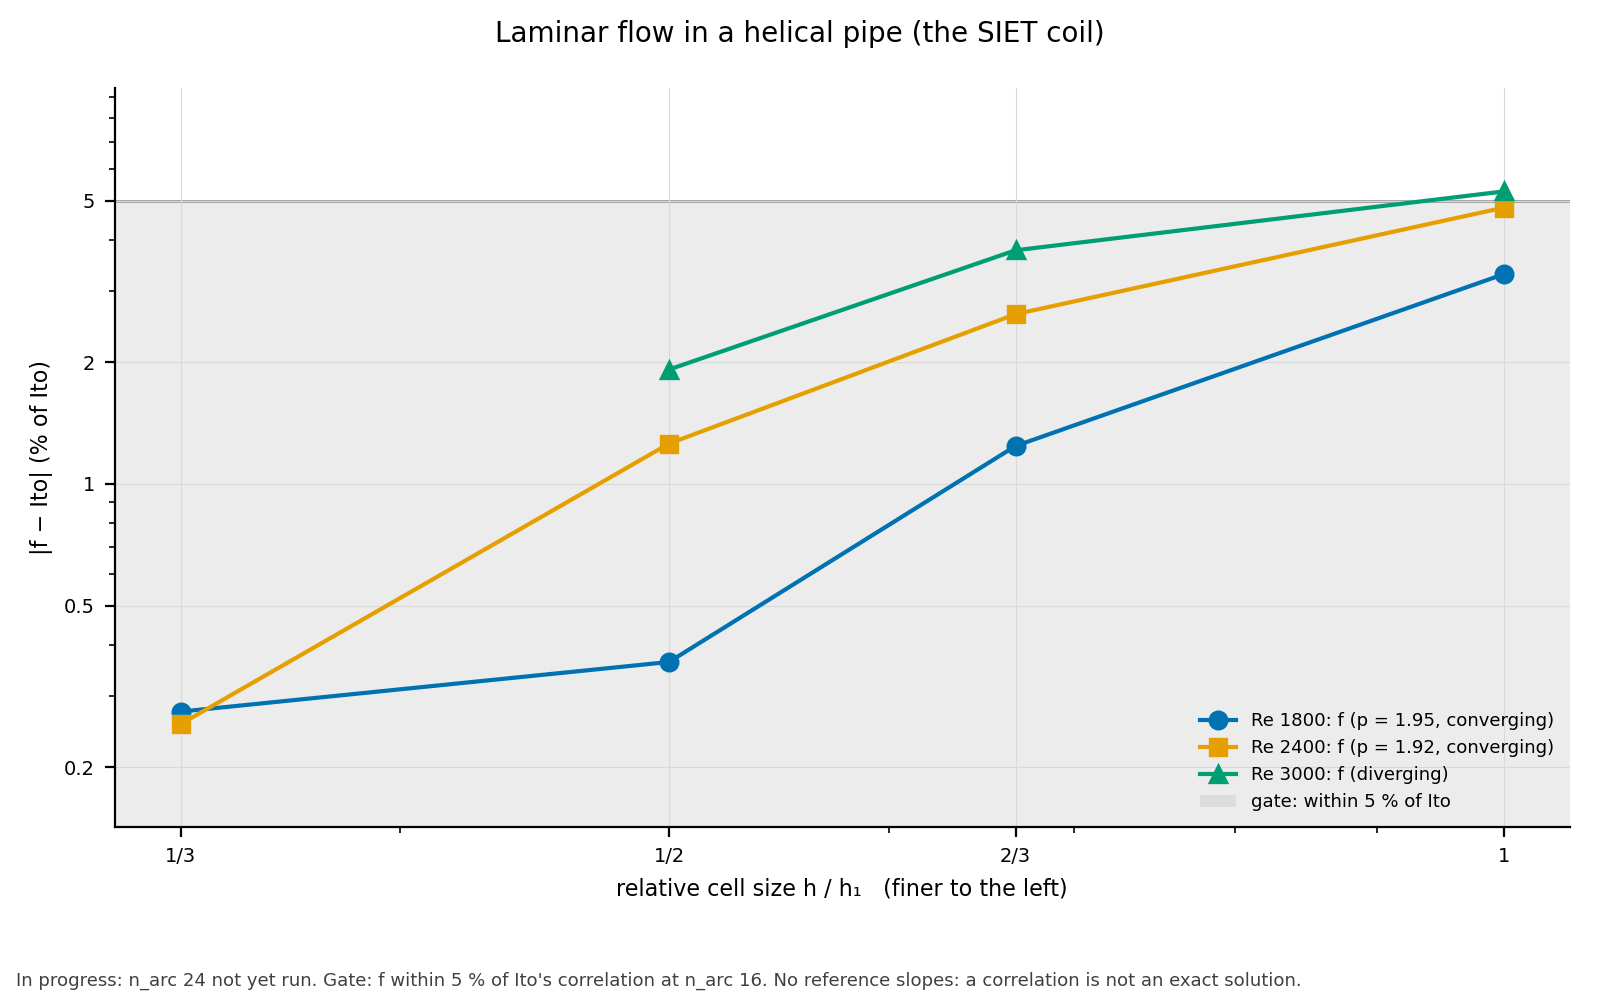
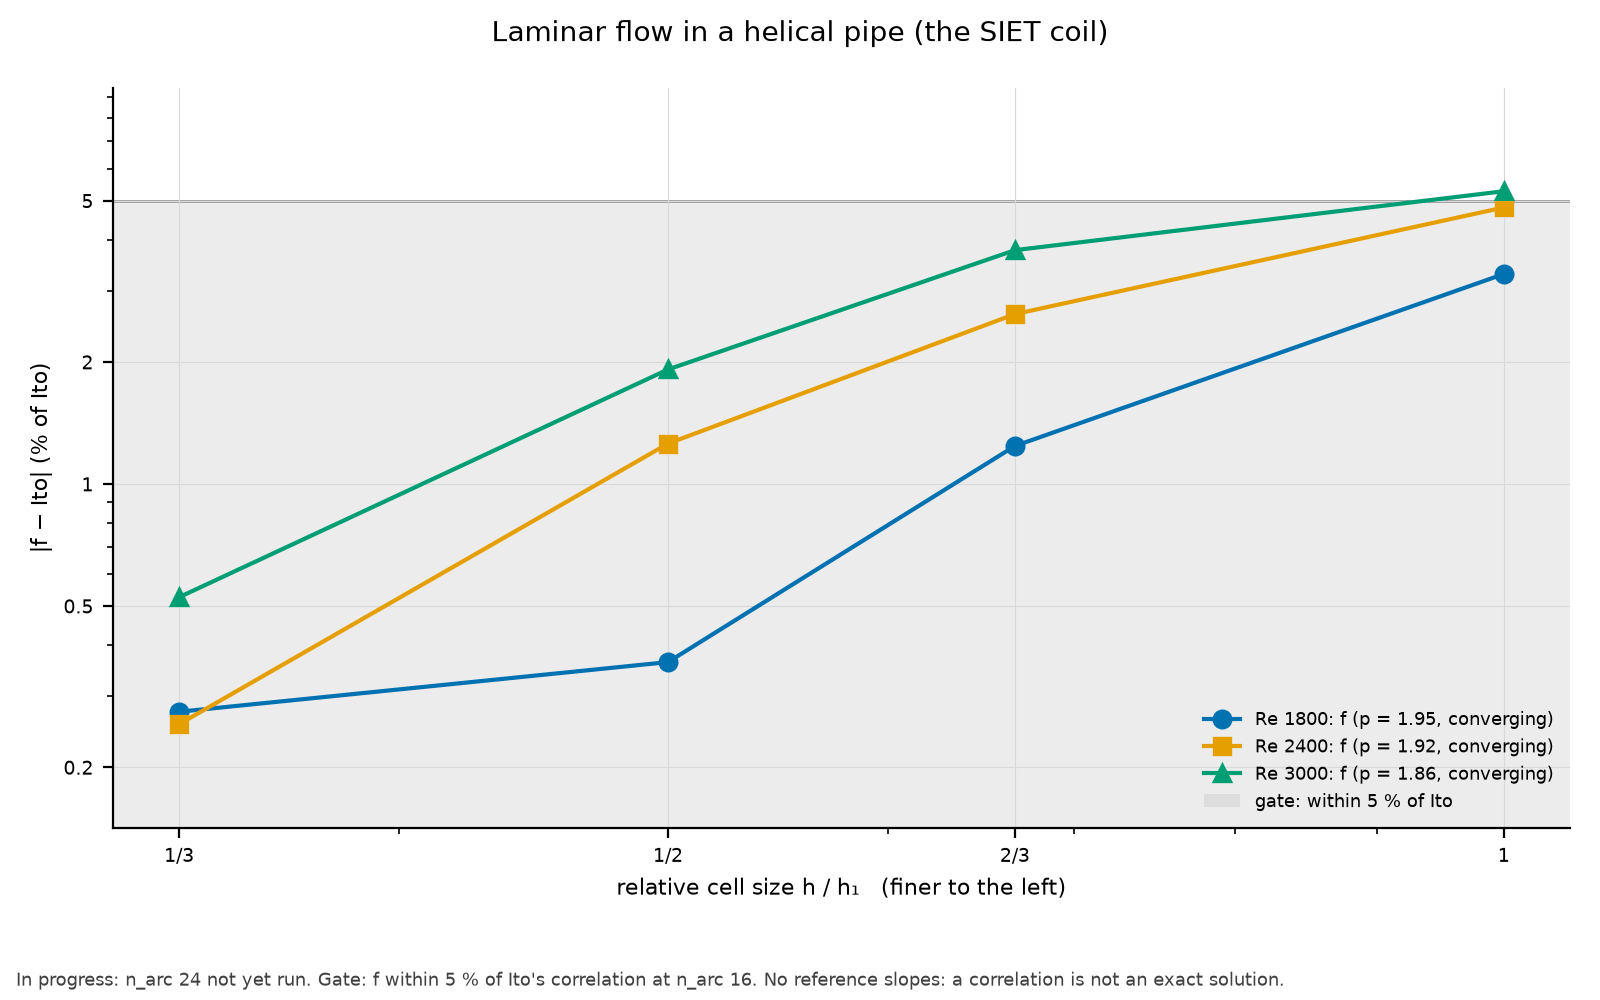
Helical pipe: Re 3000 at n_arc 24, the last missing level (task 0173): f +0.53 % from Ito; order 1.84, GCI 1.44 %; every gate passes
A volunteer run on a laptop (Windows 11, Intel Core Ultra 7 265HX,
v2406 in Docker, 16 processes), merged with `volunteer check --merge`
on next's code: the mesh hash matches, accepted.  The n_arc 16 source
re-solved to the stored f within 1.0e-9; the fine level converged in
440 steps.  Gates (recheck): Re 1800 GCI 0.55 %, -0.27 %; Re 2400 GCI
0.95 %, +0.26 %; Re 3000 GCI 1.44 %, +0.53 %; spline 3.41e-4 d.

Plots, gallery text and hexmesh/agent/validation.json regenerated;
RESULTS.md's status section gains the level.  The case's verdict and
its Gates section stay with task 0075.

diff --git a/docs/gallery/FEATURES.md b/docs/gallery/FEATURES.md
@@ -21,7 +21,7 @@ A pipe that changes direction: a smooth circular arc, a standard butt-weld elbow
 **Validated by** (tags `bend`, `elbow`, `miter`, `spline`):
 
 - ● [FEniCSx: second-order export checked end to end](../../validation/fenicsx_second_order/README.md) (V1, accepted; last run 2026-11-11, hexmesh 5952340; `bend`)
-- ◐ [Laminar flow in a helical pipe (the SIET coil)](../../validation/helical_pipe/README.md) (V3, in progress; last run 2026-11-08, hexmesh c8c7c76+local; `spline`)
+- ◐ [Laminar flow in a helical pipe (the SIET coil)](../../validation/helical_pipe/README.md) (V3, in progress; last run 2026-11-18, hexmesh c7a64b9+local; `spline`)
 - ● [Manufactured solutions for conduction on every fitting](../../validation/mms/README.md) (V1, accepted; last run 2026-11-09, hexmesh b3fbf76; `bend`, `miter`, `spline`)
 - ● [Laminar flow in a 90° square-duct bend, Re 790](../../validation/square_bend/README.md) (V3, accepted; last run 2026-11-06, hexmesh 42357ca+local; `bend`)
 - ○ [task 0050](../tasks/0050-validation-turbulent-bend.md) (V3, planned; `bend`)
@@ -329,7 +329,7 @@ The shape of the pipe: round, or a rectangular duct, and the fittings that chang
 - ● [FEniCSx: second-order export checked end to end](../../validation/fenicsx_second_order/README.md) (V1, accepted; last run 2026-11-11, hexmesh 5952340; `section:circle`)
 - ● [Heated multi-layer pipe with laminar flow (full CHT)](../../validation/heated_pipe/README.md) (V1, accepted; last run 2026-10-31, hexmesh d1baada+local; `section:circle`)
 - ● [Solid rod with uniform heat generation](../../validation/heated_rod/README.md) (V1, accepted; last run 2026-11-02, hexmesh e54faae; `section:circle`)
-- ◐ [Laminar flow in a helical pipe (the SIET coil)](../../validation/helical_pipe/README.md) (V3, in progress; last run 2026-11-08, hexmesh c8c7c76+local; `section:circle`)
+- ◐ [Laminar flow in a helical pipe (the SIET coil)](../../validation/helical_pipe/README.md) (V3, in progress; last run 2026-11-18, hexmesh c7a64b9+local; `section:circle`)
 - ◐ [Equal-diameter 90° tee: loss coefficients, k-ω SST](../../validation/junction_loss/README.md) (V3, in progress; `section:circle`)
 - ● [Conduction through a heated multi-layer cylinder](../../validation/layered_conduction/README.md) (V1, accepted; last run 2026-10-28, hexmesh 91c897a; `section:circle`)
 - ● [Manufactured solutions for conduction on every fitting](../../validation/mms/README.md) (V1, accepted; last run 2026-11-09, hexmesh b3fbf76; `section:circle`, `section:rect`, `transition`)
@@ -693,7 +693,7 @@ Fittings join in any order and any orientation: a network is a sequence of `add`
 - ● [FEniCSx: second-order export checked end to end](../../validation/fenicsx_second_order/README.md) (V1, accepted; last run 2026-11-11, hexmesh 5952340; `straight`)
 - ● [Heated multi-layer pipe with laminar flow (full CHT)](../../validation/heated_pipe/README.md) (V1, accepted; last run 2026-10-31, hexmesh d1baada+local; `straight`)
 - ● [Solid rod with uniform heat generation](../../validation/heated_rod/README.md) (V1, accepted; last run 2026-11-02, hexmesh e54faae; `straight`)
-- ◐ [Laminar flow in a helical pipe (the SIET coil)](../../validation/helical_pipe/README.md) (V3, in progress; last run 2026-11-08, hexmesh c8c7c76+local; `straight`)
+- ◐ [Laminar flow in a helical pipe (the SIET coil)](../../validation/helical_pipe/README.md) (V3, in progress; last run 2026-11-18, hexmesh c7a64b9+local; `straight`)
 - ◐ [Equal-diameter 90° tee: loss coefficients, k-ω SST](../../validation/junction_loss/README.md) (V3, in progress; `straight`)
 - ● [Conduction through a heated multi-layer cylinder](../../validation/layered_conduction/README.md) (V1, accepted; last run 2026-10-28, hexmesh 91c897a; `straight`)
 - ● [Manufactured solutions for conduction on every fitting](../../validation/mms/README.md) (V1, accepted; last run 2026-11-09, hexmesh b3fbf76; `straight`)

diff --git a/validation/helical_pipe/RESULTS.md b/validation/helical_pipe/RESULTS.md
@@ -1,7 +1,9 @@
 # Results: laminar flow in a helical pipe (the SIET coil)
 
 **Status: in progress, undecided.**  Task 0075 is held by the user until
-better hardware (2026-11-08); Re 3000's n_arc 24 level is missing.
+better hardware (2026-11-08).  Re 3000's n_arc 24 level, the last one
+missing, ran on 2026-11-18 (a volunteer run, task 0173); the case's
+verdict is task 0075's.
 - Design moved the convergence study to n_arc 12, 16, 24 (Q3), because
   n_arc 8 is too coarse at these Dean numbers.
 - **n_arc 24 at Re 1800 and 2400 is done** (2026-11-07/08, the restartable
@@ -11,13 +13,19 @@ better hardware (2026-11-08); Re 3000's n_arc 24 level is missing.
   |---|---|---|---|---|---|
   | 1800 | 322 | 5.0 h | 0.06633 | −0.27 % | converging, order 1.93, GCI 0.55 % |
   | 2400 | 398 | 5.6 h | 0.05557 | +0.26 % | converging, order 1.90, GCI 0.95 % |
+  | 3000 | 440 | 1.2 h* | 0.04856 | +0.53 % | converging, order 1.84, GCI 1.44 % |
 
   The re-solved n_arc 16 sources matched the stored levels' f to 1e-8.
   Wall times overlapped other runs on the machine (task 0074's
   diagnostics, on 3 processes, for about an hour).
-- **Re 3000's n_arc 24 isn't run.**  It was stopped 6 minutes into its
-  n_arc 16 source when the user postponed the run; the case was deleted.
-  At n_arc 16 its f is +1.92 % from Ito.
+- **Re 3000's n_arc 24** (2026-11-18, task 0173): run with the volunteer
+  tool on a laptop, Windows 11, v2406 in Docker (Rancher Desktop), on 16
+  processes, and merged with `volunteer check --merge`.  *The fine
+  solve's 440 steps took about 4190 s (9.5 s/step), with the laptop's
+  sleep removed.  Its n_arc 16 source re-solved in 812 steps (34 min)
+  and matched the stored level's f to 1.0e-9.  The `wall_s` stored with
+  the level (12 730 s) also counts restarts after the Windows fixes and
+  the sleep.
 - Earlier: two attempts at Re 1800 (from rest, and mapped without
   chunks, Q4 and Q5) stopped unconverged after 4.5–5 h.
 - Under the Q4 rule, an unfinished level leaves the case neither

diff --git a/CHANGELOG.md b/CHANGELOG.md
@@ -22,6 +22,11 @@ volunteer tags predate the renames of task 0166, so their files say
 `nang`/`nrad`; `volunteer check` failed on them (`KeyError: 'n_arc'`).
 It now renames them on reading and says so in its report.
 
+**Validation: Re 3000 at n_arc 24 in the helical pipe** (task 0173), the
+last missing level: f +0.53 % from Ito; convergence over n_arc 12, 16, 24
+of order 1.84, GCI 1.44 %.  Every gate of the case now passes; its
+verdict is task 0075's.
+
 **A runner that can't run says why** (task 0173).  A stopped Docker
 engine was reported as "has no OpenFOAM".  `require_version` now gives
 the runner's own error ("could not run (failed to connect to the docker

diff --git a/docs/gallery/VALIDATION.md b/docs/gallery/VALIDATION.md
@@ -168,7 +168,7 @@ Case: `validation/turbulent_pipe/`: [README.md](../../validation/turbulent_pipe/
 
 ### Laminar flow in a helical pipe (the SIET coil)
 
-**Status:** in progress (task 0075).  **Reference:** deamicis_and_cammi_etal_2014 (the SIET coil; Ito (1959) as their eq. 2; Fig. 12 digitised in data/).  **Last run:** 2026-11-08, hexmesh c8c7c76+local.
+**Status:** in progress (task 0075).  **Reference:** deamicis_and_cammi_etal_2014 (the SIET coil; Ito (1959) as their eq. 2; Fig. 12 digitised in data/).  **Last run:** 2026-11-18, hexmesh c7a64b9+local.
 
 Tags: `laminar`, `flow`, `section:circle`, `straight`, `spline`, `OpenFOAM v2406 (docker)`.
 
